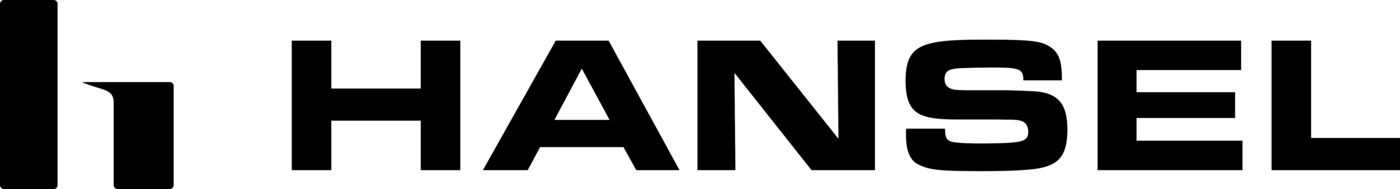
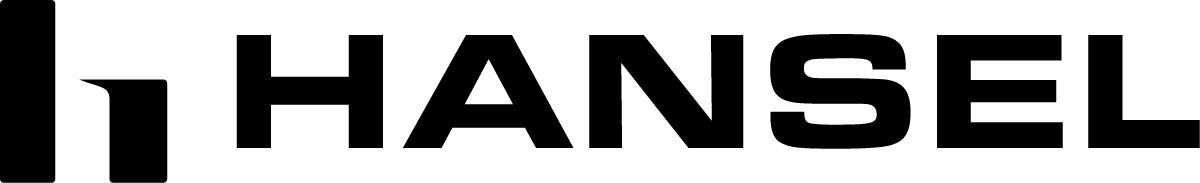
Prepare Hansel KOReader 0.3.2 candidate [skip ci]

diff --git a/README.md b/README.md
@@ -41,6 +41,8 @@ Hansel makes the library the home screen. Open the device and you're looking at 
 3. Restart KOReader. Enable **Hansel** under **Tools → More tools → Plugin management** if it isn't already on.
 4. Open **Tools → Hansel → Show library** and enter your Grimmory URL, username, and password.
 
+**Updating an existing install:** Quit KOReader, replace only the `plugins/hansel.koplugin` folder, then restart. Keep KOReader's settings and Hansel data/cache folders: they hold your sign-in, downloaded books, pins, catalog, and pending progress. Do not uninstall or clear application data to update.
+
 Then make it the front door: in File Manager, open the leftmost menu tab and set **Start with → Hansel**. To jump back from inside a book, bind **Show Hansel** in Gesture Manager.
 
 <table align="center">
@@ -96,7 +98,7 @@ Reach for the official plugin when you want real two-way sync. Reach for OPDS wh
 <p align="center">
   <picture>
     <source media="(prefers-color-scheme: dark)" srcset="docs/pair/hansel-lockup-dark.svg">
-    <img src="docs/pair/hansel-lockup.svg" width="246" height="37" alt="Hansel">
+    <img src="docs/pair/hansel-lockup.svg" width="244" height="37" alt="Hansel">
   </picture>
   &emsp;
   <picture>
@@ -107,7 +109,7 @@ Reach for the official plugin when you want real two-way sync. Reach for OPDS wh
   <a href="https://abeant.com/gretel/">
     <picture>
       <source media="(prefers-color-scheme: dark)" srcset="docs/pair/gretel-lockup-dark.svg">
-      <img src="docs/pair/gretel-lockup.svg" width="234" height="37" alt="Gretel">
+      <img src="docs/pair/gretel-lockup.svg" width="232" height="37" alt="Gretel">
     </picture>
   </a>
 </p>
@@ -145,6 +147,9 @@ Yes. Close Hansel, or just don't set it as **Start with**.
 
 **Does this need an account somewhere?**
 Only the Grimmory login you already have. There's no Hansel service and no second account.
+
+**Where are my credentials and reading data stored?**
+The KOReader plugin keeps credentials and refresh tokens in KOReader settings using reversible obfuscation, not encryption or macOS Keychain. Anyone who can read those files can recover the credentials. Use HTTPS for your Grimmory connection and protect your device and backups. Catalog, covers, download metadata, and pending reading progress are stored locally; enabled progress sync sends reading position to your configured Grimmory server. Hansel has no separate account or analytics service.
 
 **Why "Hansel"?**
 Breadcrumbs. Wander as deep into the collection as you like — the trail back to the library is always on screen.

diff --git a/CHANGELOG.md b/CHANGELOG.md
@@ -1,5 +1,13 @@
 # Changelog
 
+## [0.3.2] — 2026-10-07
+
+### Changed
+
+- Replace the drawer and README lockups with the approved canonical Hansel artwork, retaining uniform proportions and monochrome e-ink presentation. Refresh Gretel pairing lockups to the same canonical source.
+- Document updates that preserve settings, downloads, pins, catalog, and pending progress. Clarify that plugin credentials use reversible local obfuscation rather than encryption or macOS Keychain.
+- Include the dark README lockup and changelog in the plugin archive, exclude macOS metadata, and validate the complete archive before replacing an existing package.
+
 ## [0.3.1] — 2026-09-02
 
 ### Fixed
